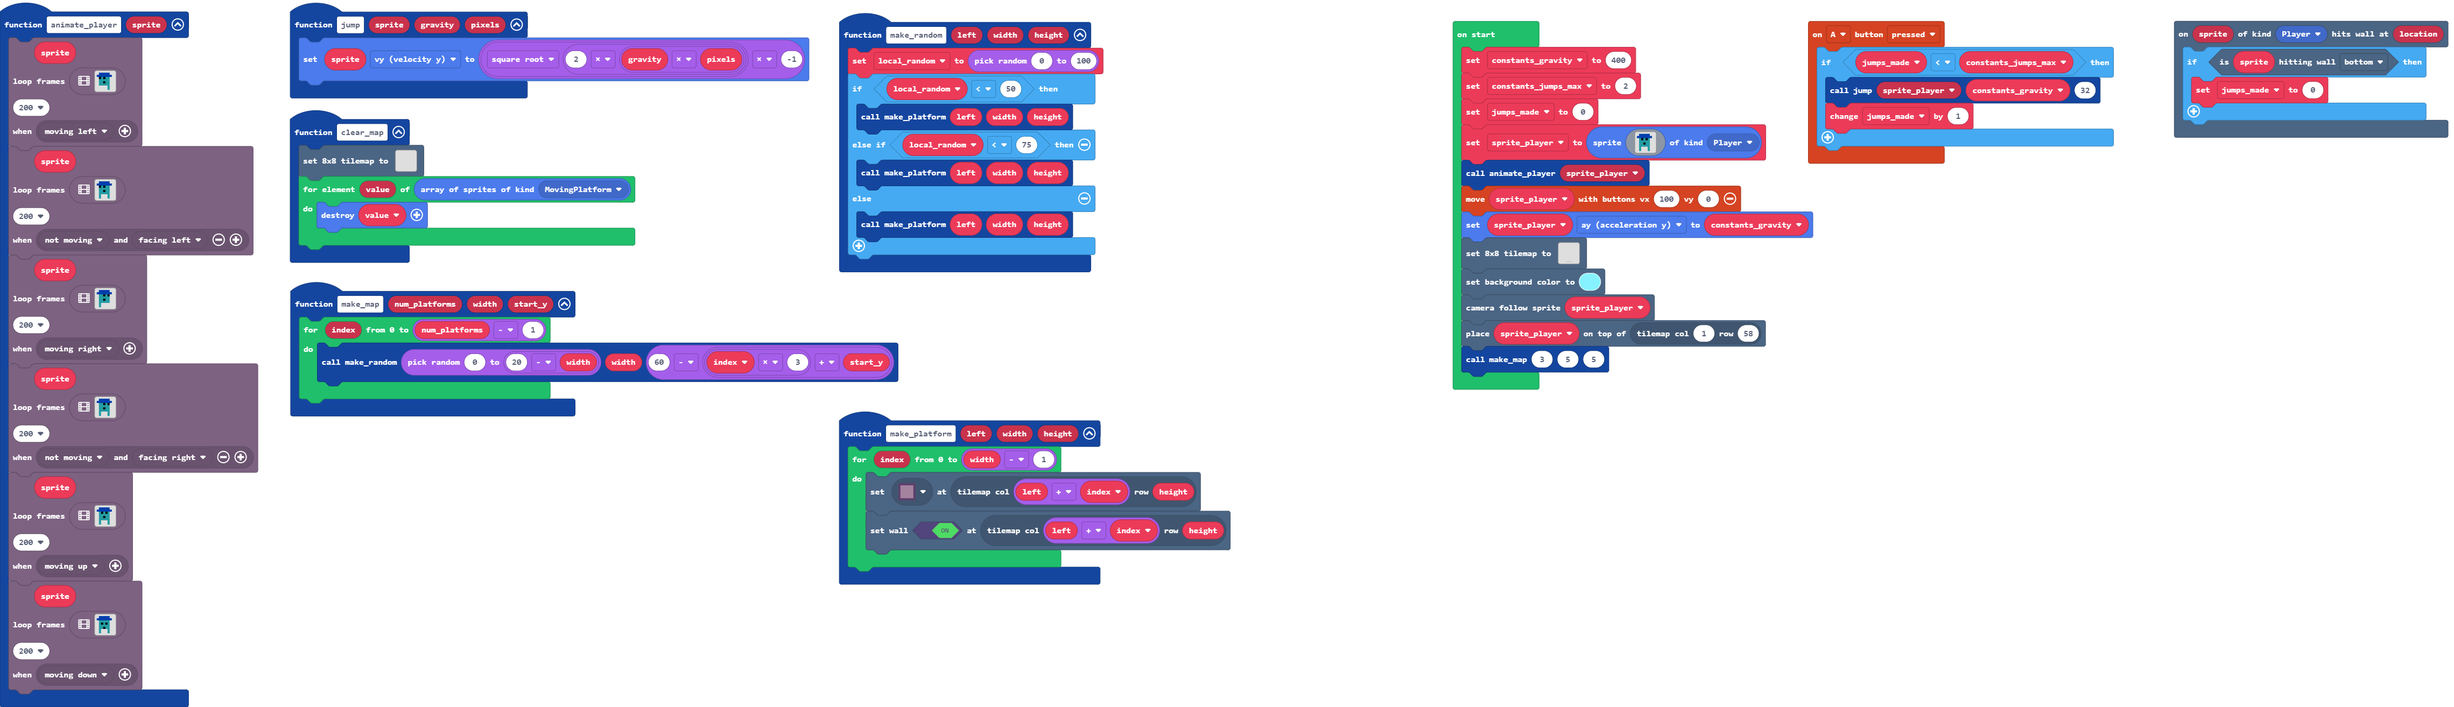
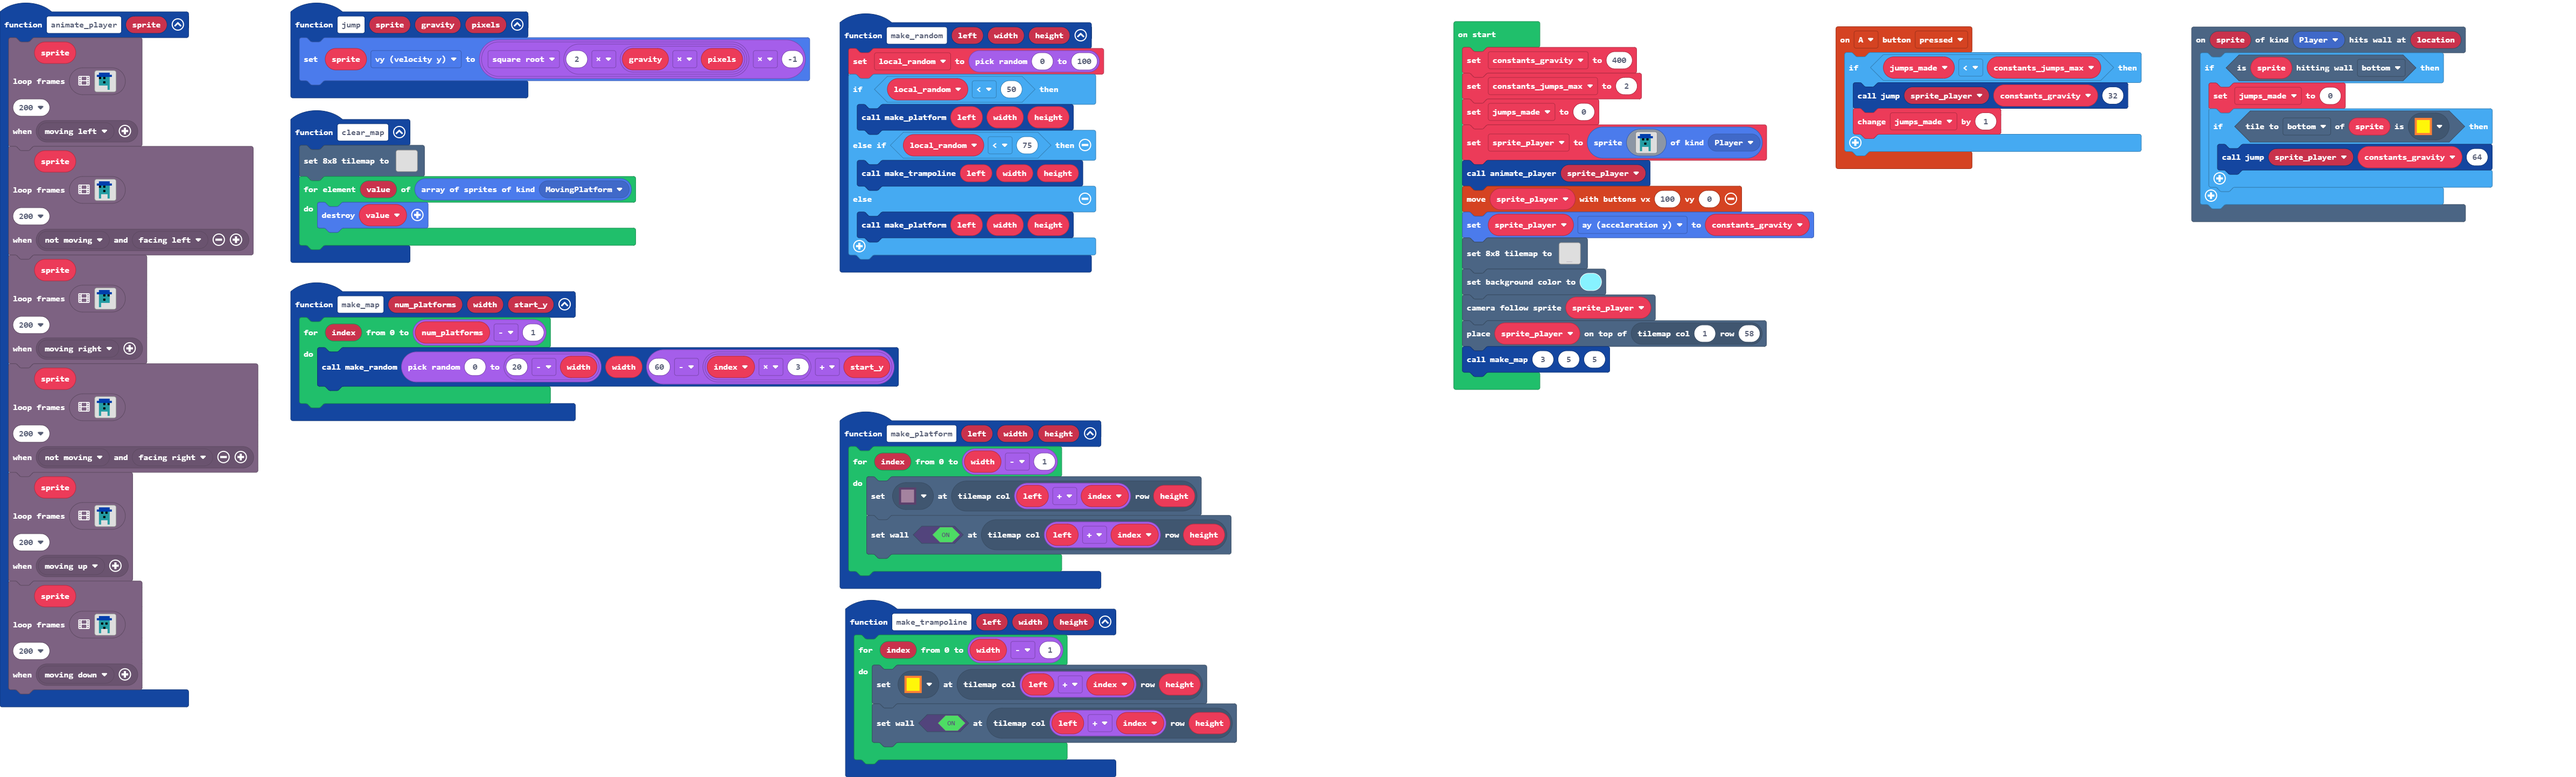
Trampoline!

Changed region(s): [[0.0, 0.0, 0.4984, 1.0], [0.5606, 0.0, 1.0, 0.5616]]

diff --git a/main.ts b/main.ts
@@ -4,11 +4,20 @@ namespace SpriteKind {
 scene.onHitWall(SpriteKind.Player, function (sprite, location) {
     if (sprite.isHittingTile(CollisionDirection.Bottom)) {
         jumps_made = 0
+        if (sprite.tileKindAt(TileDirection.Bottom, myTiles.tile2)) {
+            jump(sprite_player, constants_gravity, 64)
+        }
     }
 })
 function make_platform (left: number, width: number, height: number) {
     for (let index = 0; index <= width - 1; index++) {
         tiles.setTileAt(tiles.getTileLocation(left + index, height), myTiles.tile1)
+        tiles.setWallAt(tiles.getTileLocation(left + index, height), true)
+    }
+}
+function make_trampoline (left: number, width: number, height: number) {
+    for (let index = 0; index <= width - 1; index++) {
+        tiles.setTileAt(tiles.getTileLocation(left + index, height), myTiles.tile2)
         tiles.setWallAt(tiles.getTileLocation(left + index, height), true)
     }
 }
@@ -98,7 +107,7 @@ function make_random (left: number, width: number, height: number) {
     if (local_random < 50) {
         make_platform(left, width, height)
     } else if (local_random < 75) {
-        make_platform(left, width, height)
+        make_trampoline(left, width, height)
     } else {
         make_platform(left, width, height)
     }
